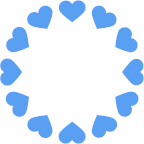
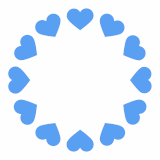
Widen twitter preview image slightly and improve fund regexs

diff --git a/funds.js b/funds.js
@@ -27,10 +27,10 @@ Papa.parsePromise = function(url) {
     });
 };
 
-let fetch_funds = async function () {
+async function fetch_funds() {
     await Papa.parsePromise("https://docs.google.com/spreadsheets/d/e/2PACX-1vTS4kW1Z4_14OBGebIDZLXeXWBpuHuAhtzhECJ1L_7FqXgO64uQgiukG6VfWqlpxs-CKMA5-8tyOH7K/pub?gid=0&single=true&output=csv")
         .then(result => result.data.forEach(line => funds.push({html: line})))
-};
+}
 
 function shuffle_funds() {
     for (let i = funds.length - 1; i >= 0; i--) {
@@ -41,16 +41,16 @@ function shuffle_funds() {
     }
 }
 
-let find_payment_links = function (tweet) {
+function find_payment_links(tweet) {
     tweet = tweet.toString()
 
-    let venmo = tweet.match(/[Vv][Ee][Nn][Mm][Oo]:?\s*([\w-]+)/)
+    let venmo = tweet.match(/[Vv][Ee][Nn][Mm][Oo]:?\s*@?\s*([\w-]+)/)
     if (venmo) {
         $(".payment_links")
             .append(`<a href="https://venmo.com/${venmo[1]}" target="_blank" rel="noopener noreferrer"><img alt="Venmo" height="64" width="64" src="https://cdn1.venmo.com/marketing/images/branding/venmo-icon.svg"/></a>`)
     }
 
-    let cashapp = tweet.match(/(\$[a-zA-Z][\w-]+)|[Cc][Aa][Ss][Hh]-?[Aa][Pp][Pp]:?\s*@?([a-zA-Z][\w-]+)/)
+    let cashapp = tweet.match(/(\$[a-zA-Z][\w-]+)|[Cc][Aa][Ss][Hh]-?[Aa][Pp][Pp]:?\s*([a-zA-Z][\w-]+)/)
     if (cashapp) {
         $(".payment_links")
             .append(`<a href="https://cash.me/${cashapp[2] || cashapp[1]}" target="_blank" rel="noopener noreferrer"><img alt="CashApp" height="64" width="64" src="https://cash.app/icon-196.png"/></a>`)
